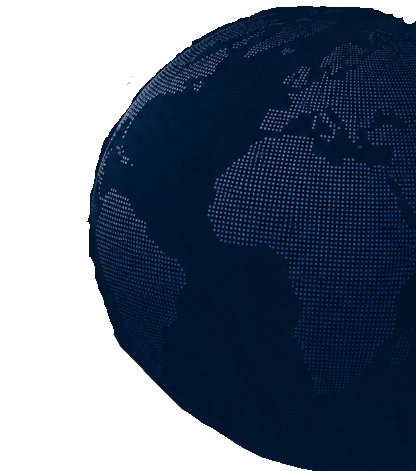
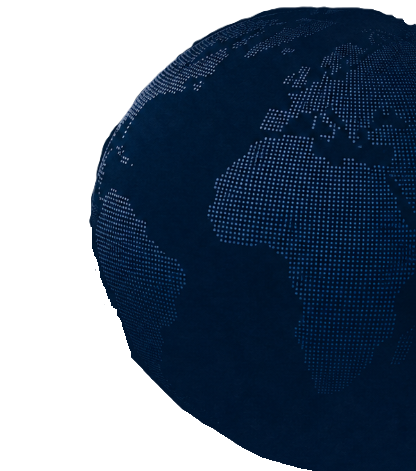
Integrated Firebase Firestore for live cloud text editing and polished navigation

diff --git a/app/contact/page.tsx b/app/contact/page.tsx
@@ -18,9 +18,8 @@ export default function ContactPage() {
 
   // Editable Content State
   const [content, setContent] = useState({
-    tag: "Inquiry",
     title: "Get in Touch",
-    description: "Select the capabilities you require below to start a confidential discussion with our leadership."
+    description: "Whether you're navigating a complex challenge, exploring new opportunities, or seeking independent strategic counsel, we welcome the opportunity to connect."
   });
 
   // Load Saved Content from Firebase Firestore on mount
@@ -64,16 +63,16 @@ export default function ContactPage() {
     }
   };
 
-  const servicesList = [
-    "General Inquiry",
-    "Strategic Communications",
-    "Geopolitical Risk & Strategic Advisory",
-    "Media Relations & Executive Positioning",
-    "Crisis Communications & Reputation Management"
-  ];
+ const servicesList = [
+  "General Inquiry",
+  "Strategic Communications",
+  "Geopolitical Risk & Strategic Advisory",
+  "Media Relations & Executive Positioning",
+  "Crisis Communications & Reputation Management"
+];
 
   return (
-    <main className="min-h-screen font-sans antialiased bg-[#0A1128] text-white relative">
+    <main className="min-h-screen font-sans antialiased bg-[#0A1128] text-white relative overflow-hidden flex flex-col justify-between">
       
       {/* DISCREET EDIT TOGGLE (Bottom Right) */}
       <div className="fixed bottom-4 right-4 z-50">
@@ -200,56 +199,54 @@ export default function ContactPage() {
         )}
       </nav>
 
-      {/* CONTACT CONTENT SECTION */}
-      <section className="py-24 sm:py-32 max-w-3xl mx-auto px-5 sm:px-6">
-        <div className="text-center mb-8 sm:mb-10">
-          {/* Tag */}
-          {isEditing ? (
-            <input 
-              type="text"
-              value={content.tag}
-              onChange={(e) => setContent({...content, tag: e.target.value})}
-              className="bg-[#121F42] border border-[#C7AA70] text-[#C7AA70] text-xs font-mono uppercase tracking-widest p-2 mb-2 w-full max-w-xs mx-auto block rounded-sm text-center"
-            />
-          ) : (
-            <span className="text-xs font-mono uppercase tracking-widest text-[#C7AA70] block mb-2 font-semibold">
-              {content.tag}
-            </span>
-          )}
+      {/* CONTACT HERO & FORM SECTION */}
+      <section className="relative pt-32 sm:pt-40 pb-24 sm:pb-32 max-w-4xl mx-auto px-5 sm:px-6 w-full flex-grow">
+        
+        {/* Globe Background Asset at Top Right */}
+        <div className="absolute top-10 right-[-10%] sm:right-[-5%] lg:right-[-5%] w-[450px] sm:w-[650px] lg:w-[750px] h-[450px] sm:h-[650px] lg:h-[750px] pointer-events-none z-0 opacity-40 sm:opacity-50 overflow-hidden">
+          <img 
+            src="/globe.png" 
+            alt="Globe Background" 
+            className="w-full h-full object-contain object-top-right mix-blend-screen"
+          />
+        </div>
 
-          {/* Title */}
+        {/* Header Content */}
+        <div className="relative z-10 text-center mb-12 sm:mb-16">
           {isEditing ? (
             <input 
               type="text"
               value={content.title}
               onChange={(e) => setContent({...content, title: e.target.value})}
-              className="bg-[#121F42] border border-[#C7AA70] text-[#F5F2E9] font-serif text-3xl sm:text-5xl mb-4 p-2 w-full rounded-sm text-center"
+              className="bg-[#121F42] border border-[#C7AA70] text-[#F5F2E9] font-serif text-3xl sm:text-5xl mb-3 p-2 w-full max-w-md mx-auto block rounded-sm text-center"
             />
           ) : (
-            <h2 className="font-serif text-3xl sm:text-5xl text-[#F5F2E9] mb-4 tracking-tight">
+            <h1 className="font-serif text-4xl sm:text-6xl text-[#F5F2E9] mb-3 tracking-tight">
               {content.title}
-            </h2>
+            </h1>
           )}
 
-          {/* Subtitle Description */}
+          <div className="w-12 h-0.5 bg-[#C7AA70] mx-auto mb-6"></div>
+
           {isEditing ? (
             <textarea 
               rows={3}
               value={content.description}
               onChange={(e) => setContent({...content, description: e.target.value})}
-              className="bg-[#121F42] border border-[#C7AA70] text-slate-400 text-xs sm:text-sm p-2 w-full rounded-sm text-center max-w-lg mx-auto block"
+              className="bg-[#121F42] border border-[#C7AA70] text-slate-300 text-xs sm:text-sm p-3 w-full max-w-xl mx-auto block rounded-sm text-center"
             />
           ) : (
-            <p className="text-slate-400 text-xs sm:text-sm max-w-lg mx-auto font-light">
+            <p className="text-slate-300 text-xs sm:text-sm max-w-xl mx-auto font-light leading-relaxed">
               {content.description}
             </p>
           )}
         </div>
 
-        <div className="border border-slate-800 p-6 sm:p-10 bg-[#121F42] shadow-2xl rounded-sm">
+        {/* Contact Form Container */}
+        <div className="relative z-10 border border-slate-800 p-6 sm:p-12 bg-[#121F42]/95 backdrop-blur-sm shadow-2xl rounded-sm">
           {formSubmitted ? (
-            <div className="text-center py-8">
-              <div className="w-12 h-12 bg-[#C7AA70]/20 border border-[#C7AA70] text-[#C7AA70] rounded-full flex items-center justify-center mx-auto mb-4 font-bold text-xl">
+            <div className="text-center py-12">
+              <div className="w-14 h-14 bg-[#C7AA70]/20 border border-[#C7AA70] text-[#C7AA70] rounded-full flex items-center justify-center mx-auto mb-4 font-bold text-2xl">
                 ✓
               </div>
               <h3 className="font-serif text-2xl text-[#F5F2E9] mb-2">Message Received</h3>
@@ -272,21 +269,20 @@ export default function ContactPage() {
                   setFormSubmitted(true);
                 }
               }} 
-              className="space-y-5"
+              className="space-y-6"
             >
               <input type="hidden" name="access_key" value="535b5f06-63bd-4115-a97d-b4c2be99c128" />
-              <input type="hidden" name="replyto" value="salimsalonn@gmail.com" />
               <input type="hidden" name="Selected Service" value={selectedService} />
 
-              {/* OPTIONAL SERVICE / GENERAL INQUIRY SELECTION */}
+              {/* INQUIRY TYPE SELECTOR */}
               <div>
-                <label className="block text-xs font-mono uppercase tracking-wider text-[#C7AA70] mb-2 font-semibold">
-                  Inquiry Type 
+                <label className="block text-[11px] font-mono uppercase tracking-[0.15em] text-[#C7AA70] mb-2 font-semibold">
+                  Inquiry Type
                 </label>
                 <select
                   value={selectedService}
                   onChange={(e) => setSelectedService(e.target.value)}
-                  className="w-full bg-[#0A1128] border border-slate-800 p-3 text-sm text-white focus:outline-none focus:border-[#C7AA70] transition-colors rounded-sm"
+                  className="w-full bg-[#0A1128] border border-slate-800 p-3.5 text-sm text-white focus:outline-none focus:border-[#C7AA70] transition-colors rounded-sm"
                 >
                   {servicesList.map((service, idx) => (
                     <option key={idx} value={service} className="bg-[#0A1128] text-white">
@@ -296,45 +292,68 @@ export default function ContactPage() {
                 </select>
               </div>
 
-              {/* NAME & OPTIONAL ORGANIZATION */}
-              <div className="grid grid-cols-1 sm:grid-cols-2 gap-4">
+              {/* FULL NAME & ORGANIZATION */}
+              <div className="grid grid-cols-1 sm:grid-cols-2 gap-6">
                 <div>
-                  <label className="block text-xs font-mono uppercase tracking-wider text-slate-400 mb-1.5 font-semibold">
+                  <label className="block text-[11px] font-mono uppercase tracking-[0.15em] text-slate-400 mb-2 font-semibold">
                     Full Name <span className="text-[#C7AA70]">*</span>
                   </label>
-                  <input required type="text" name="Full Name" placeholder="Jane Doe" className="w-full bg-[#0A1128] border border-slate-800 p-3 text-sm text-white focus:outline-none focus:border-[#C7AA70] transition-colors placeholder:text-slate-600 rounded-sm" />
+                  <input required type="text" name="Full Name" placeholder="Jane Doe" className="w-full bg-[#0A1128] border border-slate-800 p-3.5 text-sm text-white focus:outline-none focus:border-[#C7AA70] transition-colors placeholder:text-slate-600 rounded-sm" />
                 </div>
                 <div>
-                  <label className="block text-xs font-mono uppercase tracking-wider text-slate-400 mb-1.5 font-semibold">
+                  <label className="block text-[11px] font-mono uppercase tracking-[0.15em] text-slate-400 mb-2 font-semibold">
                     Organization
                   </label>
-                  <input type="text" name="Organization" placeholder="Company / Sovereign Entity" className="w-full bg-[#0A1128] border border-slate-800 p-3 text-sm text-white focus:outline-none focus:border-[#C7AA70] transition-colors placeholder:text-slate-600 rounded-sm" />
+                  <input type="text" name="Organization" placeholder="Company / Sovereign Entity" className="w-full bg-[#0A1128] border border-slate-800 p-3.5 text-sm text-white focus:outline-none focus:border-[#C7AA70] transition-colors placeholder:text-slate-600 rounded-sm" />
                 </div>
               </div>
 
-              {/* EMAIL */}
+              {/* EMAIL ADDRESS */}
               <div>
-                <label className="block text-xs font-mono uppercase tracking-wider text-slate-400 mb-1.5 font-semibold">
-                  Corporate Email <span className="text-[#C7AA70]">*</span>
+                <label className="block text-[11px] font-mono uppercase tracking-[0.15em] text-slate-400 mb-2 font-semibold">
+                  Email Address <span className="text-[#C7AA70]">*</span>
                 </label>
-                <input required type="email" name="Email" placeholder="name@organization.com" className="w-full bg-[#0A1128] border border-slate-800 p-3 text-sm text-white focus:outline-none focus:border-[#C7AA70] transition-colors placeholder:text-slate-600 rounded-sm" />
+                <input required type="email" name="Email" placeholder="name@organization.com" className="w-full bg-[#0A1128] border border-slate-800 p-3.5 text-sm text-white focus:outline-none focus:border-[#C7AA70] transition-colors placeholder:text-slate-600 rounded-sm" />
               </div>
 
-              {/* REQUIRED BLANK MESSAGE FIELD */}
+              {/* MESSAGE */}
               <div>
-                <label className="block text-xs font-mono uppercase tracking-wider text-slate-400 mb-1.5 font-semibold">
+                <label className="block text-[11px] font-mono uppercase tracking-[0.15em] text-slate-400 mb-2 font-semibold">
                   Message <span className="text-[#C7AA70]">*</span>
                 </label>
-                <textarea required rows={4} name="Message" placeholder="Type your message here..." className="w-full bg-[#0A1128] border border-slate-800 p-3 text-sm text-white focus:outline-none focus:border-[#C7AA70] transition-colors placeholder:text-slate-600 rounded-sm resize-none" />
+                <textarea required rows={5} name="Message" placeholder="How can we help?" className="w-full bg-[#0A1128] border border-slate-800 p-3.5 text-sm text-white focus:outline-none focus:border-[#C7AA70] transition-colors placeholder:text-slate-600 rounded-sm resize-none" />
               </div>
 
-              <button type="submit" className="w-full py-4 bg-[#C7AA70] text-black font-semibold text-xs uppercase tracking-widest hover:bg-[#b5985e] transition-colors shadow-lg rounded-sm">
+              <button type="submit" className="w-full py-4 bg-[#C7AA70] text-black font-semibold text-xs uppercase tracking-[0.2em] hover:bg-[#b5985e] transition-colors shadow-lg rounded-sm">
                 Send Inquiry
               </button>
             </form>
           )}
         </div>
       </section>
+
+      {/* FOOTER */}
+      <footer className="py-12 bg-[#060B1A] border-t border-slate-800 text-xs text-slate-400">
+        <div className="max-w-7xl mx-auto px-6 flex flex-col md:flex-row justify-between items-center gap-6">
+          <div className="flex items-center space-x-3">
+            <img 
+              src="/logo.png" 
+              alt="7010 Advisory Logo" 
+              className="h-8 w-auto object-contain rounded"
+            />
+          </div>
+          
+          <div className="flex items-center space-x-6 uppercase tracking-widest text-[11px] font-semibold text-slate-400">
+            <a href="/services" className="hover:text-[#C7AA70] transition-colors">Strategic Communications</a>
+            <span>|</span>
+            <a href="/services" className="hover:text-[#C7AA70] transition-colors">Geopolitical Risk Analysis</a>
+            <span>|</span>
+            <a href="/services" className="hover:text-[#C7AA70] transition-colors">Business Advisory</a>
+          </div>
+
+          <div className="text-slate-500 text-[11px]">© 2026 7010 Advisory. All rights reserved.</div>
+        </div>
+      </footer>
     </main>
   );
 }
